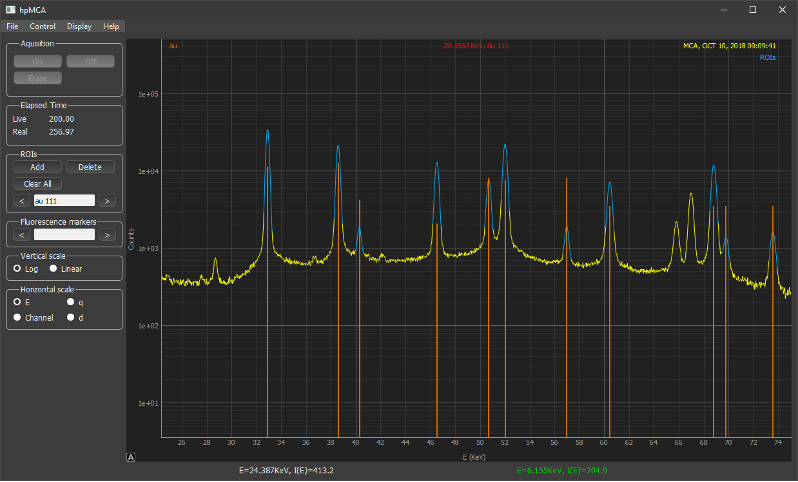
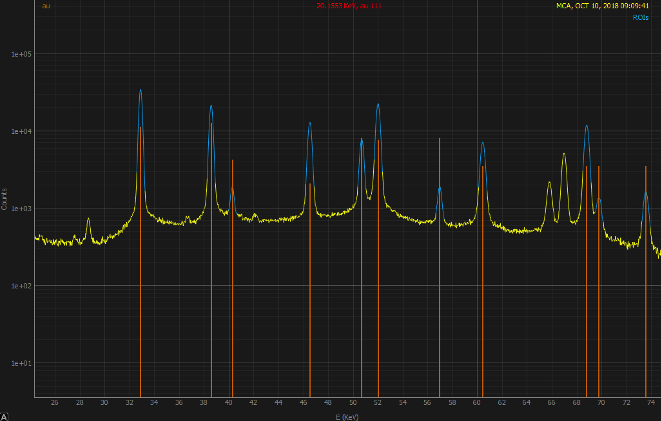
docs

diff --git a/docs/source/beamline_operation.rst b/docs/source/beamline_operation.rst
@@ -88,7 +88,7 @@ EDXD data collation and viewing is done using the :ref:`hpMCA <hpMCA>` software:
 
 .. figure:: /images/hpmca/hpmca_main_screen.png
    :alt: hpmca_main_screen
-   :scale: 80 %
+   :scale: 50 %
    :align: center
 
 2. File -> foreground -> open detector.
@@ -190,63 +190,6 @@ Sample X position can be adjusted by using intensity of sample or diffraction pa
    :scale: 30 %
    :align: center
 
-Liquid/amorphous structure measurement
---------------------------------------
-A python program ‘multiangle.py’ is available for automatic data acquisition of EDXD pattern with varying 2θ angle.
-
-- Open the python program by running ‘multiangle.bat’ from the desktop shortcut.
-
-.. figure:: /images/operation/multiangle_setup.png
-   :alt: multiangle_setup
-   :scale: 80 %
-   :align: center
-
-You have the following 3 options:
-
-1.	Create a new setup automatically by clicking Setup in main window. In the pop-up window enter desired q-range and usable E range, and % overlap for the measurements. The built in algorithm will calculate optimal 2theta angles and populate the main window.
-
-.. figure:: /images/operation/multiangle_automatic.png
-   :alt: multiangle_automatic
-   :scale: 100 %
-   :align: center
-
-2.	Load previously saved setup, click Load in main window
-3.	Add 2-theta angles manually by clicking Add in the main window for each angle.
-
-Adjust the slit sizes and exposure times for each 2-theta 
-
-Input parameters:
-
-    #.	2θ = 2theta angle
-    #.	1stV = 1st slit Vertical size
-    #.	1stH = 1st slit Horizontal size
-    #.	2ndV = 2nd slit Vertical size
-    #.	2ndH = 2nd slit Horizontal size
-    #.	Det.V = Detector slit Vertical size
-    #.	Det.H = Detector slit Horizontal size
-    #.	Exp. (s) = Data collection time in ‘Live time’ (i.e. Actual data acquisition time is Live time + Dead time)
-
-If you want to repeat measurement, you can set ‘Iterations = 2 or higher.
-
-.. important:: Confirm the following: 
-
-   - ‘Camera Vpos’ = 110 ‘Beamstop’ = OUT ‘Tip X’ = 0
-   - ‘Scan1 MCA Trigger Toggle’ = OFF (nothing in line 2) Both ‘Preset Real Time’ and ‘Preset Live Time’ = 0
-   - Slit and Filter setup is ‘EDXD’ condition (‘Filter’ = 0, slit size is small) ‘position of sample is correct’.
-
-Then, please make dummy saved file in hpMCA:
-
-* File -> Save As (please make a dummy file with suffix ‘_000’, file extension will be .hpmca)
-* Open File -> Preferences
-* In preferences, please check ‘yes’ for ‘autosave when acquisition stopped’. (hpMCA will save file for each angle data with the name suffix of ‘_001’, ‘_002’...).
-
-Then, to start multiangle measurement, 
-
-- On Multiangle control window, click Run 
-
-.. Note:: After finishing the Multiangle collection, please do not forget to check ‘no’ for ‘autosave when acquisition stopped’.
-
-If you want to stop the Multiangle measurement, click Stop.
 
 Increase pressure
 -----------------
@@ -298,11 +241,29 @@ Procedure for increasing, maintaining, and decreasing pressure.
 
 4. Set the setpoint pressure to 20 psi.
 #. After the actual oil pressure is at 20 psi, switch pressure control to Stop.
-#. Open the valves to vent the remaining oil pressure.\
+#. Open the valves to vent the remaining oil pressure:
 
-    #. Open valve control from PEC interface "Pump control menu"
-    #. 
+    #. Open valve control from the main PEC interface menu "Pump control menu"
 
+    .. figure:: /images/sp/valve_control_2.png
+       :alt: valve_control
+       :scale: 60 %
+       :align: center
+
+   #. Toggle Valves 1-4 to Low. 
+
+   .. note:: If the readback for a valve is high toggle button for a valve is low, toggle the button to high and then back to low.
+
+   .. note:: If the valve toggle buttons are hidden check the following conditions are met: 
+      
+      * Pressure : <= 20psi
+      * Pressure setpoint: 20psi
+      * Pressure control: stopped
+
+   .. figure:: /images/sp/valve_control_blocked.png
+       :alt: valve_control_blocked
+       :scale: 60 %
+       :align: center
 
 Heating
 -------
@@ -363,10 +324,140 @@ In both cases, after cooling,
 
 After cooling of press body, please remove heating cables.
 
+Liquid/amorphous structure measurement
+--------------------------------------
+A python program ‘multiangle.py’ is available for automatic data acquisition of EDXD pattern with varying 2θ angle.
 
-Data logging
-------------
+- Open the python program by running ‘multiangle.bat’ from the desktop shortcut.
+
+.. figure:: /images/operation/multiangle_setup.png
+   :alt: multiangle_setup
+   :scale: 80 %
+   :align: center
+
+You have the following 3 options:
+
+1.	Create a new setup automatically by clicking Setup in main window. In the pop-up window enter desired q-range and usable E range, and % overlap for the measurements. The built in algorithm will calculate optimal 2theta angles and populate the main window.
+
+.. figure:: /images/operation/multiangle_automatic.png
+   :alt: multiangle_automatic
+   :scale: 100 %
+   :align: center
+
+2.	Load previously saved setup, click Load in main window
+3.	Add 2-theta angles manually by clicking Add in the main window for each angle.
+
+Adjust the slit sizes and exposure times for each 2-theta 
+
+Input parameters:
+
+    #.	2θ = 2theta angle
+    #.	1stV = 1st slit Vertical size
+    #.	1stH = 1st slit Horizontal size
+    #.	2ndV = 2nd slit Vertical size
+    #.	2ndH = 2nd slit Horizontal size
+    #.	Det.V = Detector slit Vertical size
+    #.	Det.H = Detector slit Horizontal size
+    #.	Exp. (s) = Data collection time in ‘Live time’ (i.e. Actual data acquisition time is Live time + Dead time)
+
+If you want to repeat measurement, you can set ‘Iterations = 2 or higher.
+
+.. important:: Confirm the following: 
+
+   - ‘Camera Vpos’ = 110 ‘Beamstop’ = OUT ‘Tip X’ = 0
+   - ‘Scan1 MCA Trigger Toggle’ = OFF (nothing in line 2) Both ‘Preset Real Time’ and ‘Preset Live Time’ = 0
+   - Slit and Filter setup is ‘EDXD’ condition (‘Filter’ = 0, slit size is small) ‘position of sample is correct’.
+
+Then, please make dummy saved file in hpMCA:
+
+* File -> Save As (please make a dummy file with suffix ‘_000’, file extension will be .hpmca)
+* Open File -> Preferences
+* In preferences, please check ‘yes’ for ‘autosave when acquisition stopped’. (hpMCA will save file for each angle data with the name suffix of ‘_001’, ‘_002’...).
+
+Then, to start multiangle measurement, 
+
+- On Multiangle control window, click Run 
+
+.. Note:: After finishing the Multiangle collection, please do not forget to check ‘no’ for ‘autosave when acquisition stopped’.
+
+If you want to stop the Multiangle measurement, click Stop.
+
+Ultrasound measurement
+----------------------
+
+A GUI porgram sonicPy is used for the ultrasound measurement. SonicPy allows to automatically record ultrasound ultrasound waveforms from the oscilloscope with varying exitation wave frequencies.
+
+Before beginning, create a folder named **US** in your data folder where the ultrasound data will be saved to. 
+
+1. Open sonicPy by running the **ultrasound measurement** shortcut of the desktop. 
+
+   .. figure:: /images/us_measurement/start_screen.png
+      :alt: ultrasound_measurement_start_screen
+      :scale: 45 %
+      :align: center
+
+   .. important:: Check that the Scope-Instrument is DPO5104 and AFG-Instrument is AFG3251. If something else is displayed it means that the program could communicate with the hardware. Check that the oscilloscope and the function generator are both powered on.
+
+2. Check and update if needed the following settings values:
+   
+   .. csv-table:: Scope settings
+      :header: "Settings", "Value"
+      :widths: 50, 100
+      :file: tables/table2_scope_settings.csv
+
+   .. csv-table:: AFG settings
+      :header: "Settings", "Value"
+      :widths: 50, 100
+      :file: tables/table4_afg_settings.csv
+
+   .. csv-table:: Scan settings
+      :header: "Settings", "Value"
+      :widths: 50, 100
+      :file: tables/table3_us_scan_settings.csv
+
+   .. csv-table:: Save data settings
+      :header: "Settings", "Value"
+      :widths: 50, 100
+      :file: tables/table5_us_save_data_settings.csv
+
+3. To check the ultrasound signal level, clear the scope and acquire a new ultrasound waveform by clicking **Erase + ON** above the waveform plot.
+
+   .. figure:: /images/us_measurement/waveform_acquired.png
+      :alt: waveform_acquired
+      :scale: 45 %
+      :align: center   
+
+
+   .. note:: Scope Vertical scale may need to be adjusted depending on the signal level to avoid saturation and to optimize the oscilloscope's dynamic range relative to the signal level.
+
+
+4. Click Go in the Scan panel. The the frequency sweep will start and conclude on its own. To interrupt the scan mid-way click Go again. 
+
+   .. important:: Remember to reset Next file # back to 0 after each scan.
+
+
+   
+
+General data logging
+--------------------
 
 Program **Log book** saves compression and heating records with time. Log book allows recording any process variable (PV)
 
 - Open ‘Log book’ from desktop shortcut.
+
+.. figure:: /images/logbook/start_screen.png
+   :alt: log_book_start_screen
+   :scale: 80 %
+   :align: center
+
+Hutch webcam
+------------
+
+16-BM-B hutch is equiped with an overview camera with motion and zoom capabilities. To open the camera veiwer click the shortcut **WV-S6130 Network Camera** on the desktop. 
+
+.. figure:: /images/webcam/cam_view.png
+   :alt: cam_view
+   :scale: 40 %
+   :align: center
+
+Moving (re-centering the image) of the camera is possible by clicking on the cam view image, the clicked point will become the new center. Zooming-in is possible by drawing a rectangle over the region of interest in the cam view.

diff --git a/docs/source/hpmca.rst b/docs/source/hpmca.rst
@@ -8,9 +8,9 @@ Data acquisition
 - To start data collection, press ‘Erase’ and then ‘On’ in ‘Acquisition’.
 - To stop data collection and to save, press ‘Off’ in ‘Acquisition’. Then, File -> Save As. Note: Please include a suffix “_000” after the file name to enable automatic file incrementing when using command ‘File -> Save Next’. 
 
-.. figure:: /images/hpmca/hpmca_detector_connected.png
-   :alt: hpmca_detector_connected
-   :scale: 70 %
+.. figure:: /images/hpmca/start_file_loaded.png
+   :alt: start_file_loaded
+   :scale: 50 %
    :align: center
 
 
@@ -57,6 +57,11 @@ There are two methods to add ROI.
        :scale: 80 %
        :align: center
 
+    .. figure:: /images/hpmca/rois.png
+       :alt: rois
+       :scale: 80 %
+       :align: center
+
     .. figure:: /images/hpmca/hpmca_roi_control.png
        :alt: hpmca_roi_control
        :scale: 70 %
@@ -67,8 +72,8 @@ There are two methods to add ROI.
     (2)	Make ROIs on all peaks for a crystal by using JCPDS data
         - Open ‘Phase control’ window from menu Display -> Phase
         
-        .. figure:: /images/hpmca/hpmca_phase_control.png
-           :alt: hpmca_phase_control
+        .. figure:: /images/hpmca/phase.png
+           :alt: phase
            :scale: 80 %
            :align: center
 
@@ -78,7 +83,7 @@ There are two methods to add ROI.
 
         .. figure:: /images/hpmca/hpmca_phase_lines.png
            :alt: hpmca_phase_lines
-           :scale: 70 %
+           :scale: 80 %
            :align: center
         
         - The positions of peaks lines can be shifted by changing ‘P (GPa)’, or ‘T (K)’.

diff --git a/docs/source/beamline_description.rst b/docs/source/beamline_description.rst
@@ -27,5 +27,5 @@ Summary of 16BM-B features
 .. csv-table:: Table 1
    :header: "Feature", "Description"
    :widths: 50, 100
-   :file: table1.csv
+   :file: tables/table1.csv
 
